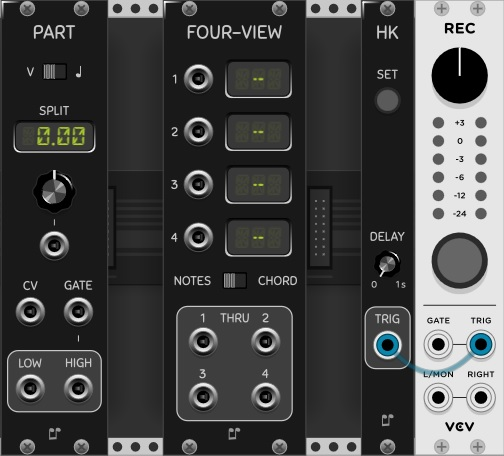
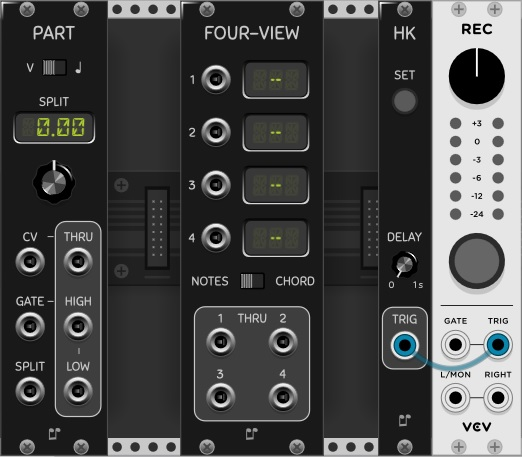
PART add cv through output for when chaining Part modules

diff --git a/src/Part.cpp b/src/Part.cpp
@@ -29,6 +29,7 @@ struct Part : Module {
 	enum OutputIds {
 		LOW_OUTPUT,
 		HIGH_OUTPUT,
+		CVTHRU_OUTPUT,
 		NUM_OUTPUTS
 	};
 	enum LightIds {
@@ -119,6 +120,7 @@ struct Part : Module {
 		if (refresh.processInputs()) {
 			outputs[LOW_OUTPUT].setChannels(numChan);
 			outputs[HIGH_OUTPUT].setChannels(numChan);
+			outputs[CVTHRU_OUTPUT].setChannels(numChan);
 		}// userInputs refresh
 		
 		
@@ -127,6 +129,7 @@ struct Part : Module {
 			float inGate = inputs[GATE_INPUT].getVoltage(c);// unconnected GATE_INPUT or insufficient channels will cause 0.0f to be used
 			outputs[LOW_OUTPUT].setVoltage(isHigh ? 0.0f : inGate, c);
 			outputs[HIGH_OUTPUT].setVoltage(isHigh ? inGate : 0.0f, c);
+			outputs[CVTHRU_OUTPUT].setVoltage(inputs[CV_INPUT].getVoltage(c), c);
 		}
 		
 		
@@ -297,12 +300,12 @@ struct PartWidget : ModuleWidget {
 		static const int colL = 25;
 		static const int colR = 65;
 		
-		static const int row0 = 60;// mode switch
-		static const int row1 = 114;// display
-		static const int row2 = row1 + 46;// split knob
-		static const int row3 = row2 + 45;// split knob CV
-		static const int row4 = 260;// CV + Gate inputs
-		static const int row5 = 324;// Gate outputs
+		static const int row0 = 56;// mode switch
+		static const int row1 = 106;// display
+		static const int row2 = 152;// split knob
+		static const int row5 = 326;// split in, low gate out
+		static const int row4 = row5 - 54;// gate in, high gate out
+		static const int row3 = row4 - 54;// CV in and thru
 		
 
 		// Display mode switch
@@ -311,18 +314,24 @@ struct PartWidget : ModuleWidget {
 		// Display
 		addChild(new SplitDisplayWidget(Vec(colM, row1), Vec(65, 24), module));// 4 characters + decimal point
 		
-		// Split knob and its CV input
+		// Split knob 
 		addParam(createDynamicParamCentered<IMBigKnob<true, false>>(Vec(colM, row2), module, Part::SPLIT_PARAM, module ? &module->panelTheme : NULL));
-		addInput(createDynamicPortCentered<IMPort>(Vec(colM, row3), true, module, Part::SPLIT_INPUT, module ? &module->panelTheme : NULL));		
+
+
+		// CV input
+		addInput(createDynamicPortCentered<IMPort>(Vec(colL, row3), true, module, Part::CV_INPUT, module ? &module->panelTheme : NULL));		
+		// Thru output
+		addOutput(createDynamicPortCentered<IMPort>(Vec(colR, row3), false, module, Part::CVTHRU_OUTPUT, module ? &module->panelTheme : NULL));
 		
+		// Gate input
+		addInput(createDynamicPortCentered<IMPort>(Vec(colL, row4), true, module, Part::GATE_INPUT, module ? &module->panelTheme : NULL));		
+		// Gate high output
+		addOutput(createDynamicPortCentered<IMPort>(Vec(colR, row4), false, module, Part::HIGH_OUTPUT, module ? &module->panelTheme : NULL));
 		
-		// CV and Gate inputs
-		addInput(createDynamicPortCentered<IMPort>(Vec(colL, row4), true, module, Part::CV_INPUT, module ? &module->panelTheme : NULL));		
-		addInput(createDynamicPortCentered<IMPort>(Vec(colR, row4), true, module, Part::GATE_INPUT, module ? &module->panelTheme : NULL));		
-		
-		// Gate outputs
-		addOutput(createDynamicPortCentered<IMPort>(Vec(colL, row5), false, module, Part::LOW_OUTPUT, module ? &module->panelTheme : NULL));
-		addOutput(createDynamicPortCentered<IMPort>(Vec(colR, row5), false, module, Part::HIGH_OUTPUT, module ? &module->panelTheme : NULL));
+		// Split CV
+		addInput(createDynamicPortCentered<IMPort>(Vec(colL, row5), true, module, Part::SPLIT_INPUT, module ? &module->panelTheme : NULL));		
+		// Gate low output
+		addOutput(createDynamicPortCentered<IMPort>(Vec(colR, row5), false, module, Part::LOW_OUTPUT, module ? &module->panelTheme : NULL));
 	}
 	
 	void step() override {

diff --git a/README.md b/README.md
@@ -707,7 +707,7 @@ WriteSeq64 has dual clock inputs, where each controls a pair of channels. When n
 
 ### Part <a id="part"></a>
 
-A gate splitter module based on a CV input and a split point. One use for this module is to split a polyphonic gate signal from a keyboard into two different polyphonic gate signals, such that the left and right hand parts can be sent to different voices. In such a case, the polyphonic CV should be also sent directly to each voice, and only the gates below/above the split point will produce sound in their respective voices. The module can also be used with monophonic signals. When chaining two Part modules to select an interval of notes (with an upper and lower bound), the CV signal being sent to the second Part must have a one extra sample delay compared to the CV signal going into the first Part module. This can easily be done by routing the 2nd Part's CV through a Bogaudio MULT module, or another equivalent.
+A gate splitter module based on a CV input and a split point. One use for this module is to split a polyphonic gate signal from a keyboard into two different polyphonic gate signals, such that the left and right hand parts can be sent to different voices. In such a case, the polyphonic CV should also be sent directly to each voice, and only the gates below/above the split point will produce sound in their respective voices. The module can also be used with monophonic signals. When chaining two Part modules to select a range of notes (with an upper and lower bound), it is important that the CV input of the second Part module be connected to the THRU output of the first Part module, to ensure gates and CVs have identical propagation delays. This is necessary to avoid glitches that can occur when gates are held continually high and the CV changes from a value above the upper bound to below the lower bound in two succesive Rack samples (or vice-versa).
 
 ### FourView <a id="four-view"></a>
 A chord viewer module that shows the note names of up to 4 CVs, or the name of the chord represented by these CVs. Sharp or flat notation is selectable in the right-click menu. Bottom jacks are through outputs. FourView can also function as an expander for ChordKey or CVPad by placing it to the right of either of those two modules; in this case: a) no cables need to be connected in order to view the note names of the chord notes or pad voltages and b) the through outputs are not used. The FourView module also allows the copying of the displayed notes via the Portable sequence format for pasting as a chord in ChordKey or other modules. For more information, please see the [ChordKey](#chord-key) manual, as the two available copy options are the same as in that module.

diff --git a/CHANGELOG.md b/CHANGELOG.md
@@ -1,7 +1,8 @@
 ### 1.1.6 (in development)
 
 - Fixed bug in Foundry CUST selection (custom length selection for SEL button and copy-paste)
-- Add +/- suffix in display for split point when showing notes
+- Added +/- suffix in display for split point when showing notes
+- Added CV through in Part module for chaining (or else in some cases a 1-sample glitch can occur because of signal delays)
 
 
 ### 1.1.5 (2019-03-25)
